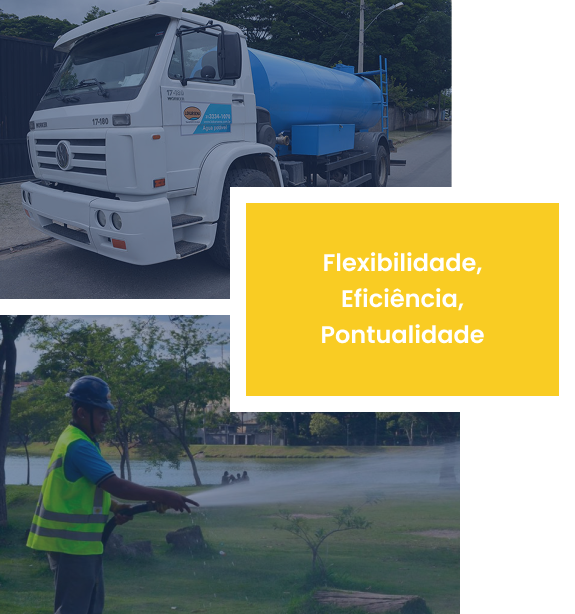
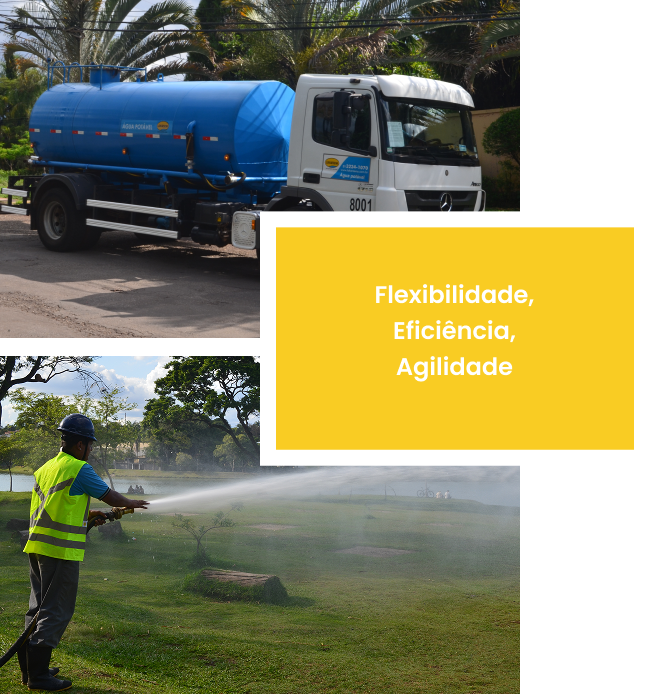
style: trocando imagens

diff --git a/index.html b/index.html
@@ -64,9 +64,9 @@
         </li>
         </li>
         <li class="flex flex-col w-full gap-[6px]">
-          <a class="text-[12px] text-[#203660] font-medium lg:text-[16px]" href="tel:+553132341070">(31) 3234-1070</a>
-          <a class="text-[12px] text-[#203660] font-medium lg:text-[16px]" href="tel:+553134472600">(31) 3447-2600</a>
-          <a class="text-[12px] text-[#203660] font-medium lg:text-[16px]" href="tel:+5531997375465">(31) 99737-5465</a>
+          <a class="text-[12px] font-medium lg:text-[16px]" href="tel:+553132341070">(31) 3234-1070</a>
+          <a class="text-[12px] font-medium lg:text-[16px]" href="tel:+553134472600">(31) 3447-2600</a>
+          <a class="text-[12px] font-medium lg:text-[16px]" href="tel:+5531997375465">(31) 99737-5465</a>
         </li>
       </ul>
     </nav>
@@ -104,7 +104,7 @@
         <a href="tel:+5531997375465"
           class="hidden sm:flex gap-[8px] lg:text-[20px] font-bold flex-shrink-0 items-center"><span
             class="material-icons menu-button lg:text-[20px]">phone</span> (31) 99737-5465 </a>
-        <span class="material-icons menu-button lg:text-[20px] hidden sm:block">menu</span>
+        <span class="material-icons menu-button lg:text-[24px] hidden sm:block">menu</span>
       </div>
     </section>
   </header>
@@ -328,9 +328,9 @@
             <p class="text-[14px] lg:text-[16px]">
               Nossos serviços são ideais para quem busca <strong
                 class="text-[14px]  font-semibold lg:text-[16px]">agilidade, economia de tempo e
-                tranquilidade</strong> <strong class="text-[14px] text-[#203660] font-medium lg:text-[16px]">na gestão
+                tranquilidade</strong> na gestão
                 de
-                recursos hídricos</strong>
+                recursos hídricos
             </p>
             <p class="text-[14px] lg:text-[16px]">
               Realizamos o reabastecimento de caixas d’água em prédios de até 30

diff --git a/fleet.html b/fleet.html
@@ -63,9 +63,9 @@
         </li>
         </li>
         <li class="flex flex-col w-full gap-[6px]">
-          <a class="text-[12px] text-[#203660] font-medium lg:text-[16px]" href="tel:+553132341070">(31) 3234-1070</a>
-          <a class="text-[12px] text-[#203660] font-medium lg:text-[16px]" href="tel:+553134472600">(31) 3447-2600</a>
-          <a class="text-[12px] text-[#203660] font-medium lg:text-[16px]" href="tel:+5531997375465">(31) 99737-5465</a>
+          <a class="text-[12px] font-medium lg:text-[16px]" href="tel:+553132341070">(31) 3234-1070</a>
+          <a class="text-[12px] font-medium lg:text-[16px]" href="tel:+553134472600">(31) 3447-2600</a>
+          <a class="text-[12px] font-medium lg:text-[16px]" href="tel:+5531997375465">(31) 99737-5465</a>
         </li>
       </ul>
     </nav>
@@ -102,7 +102,7 @@
              <a href="tel:+5531997375465"
           class="hidden sm:flex gap-[8px] text-[20px] font-bold flex-shrink-0 items-center"><span
             class="material-icons menu-button text-[20px]">phone</span> (31) 99737-5465 </a>
-        <span class="material-icons menu-button text-[20px] hidden sm:block">menu</span>
+        <span class="material-icons menu-button text-[24px] hidden sm:block">menu</span>
       </div>
     </section>
   </header>

diff --git a/contacts.html b/contacts.html
@@ -65,9 +65,9 @@
 
         </li>
         <li class="flex flex-col w-full gap-[6px]">
-          <a class="text-[12px] text-[#203660] font-medium lg:text-[16px]" href="tel:+553132341070">(31) 3234-1070</a>
-          <a class="text-[12px] text-[#203660] font-medium lg:text-[16px]" href="tel:+553134472600">(31) 3447-2600</a>
-          <a class="text-[12px] text-[#203660] font-medium lg:text-[16px]" href="tel:+5531997375465">(31) 99737-5465</a>
+          <a class="text-[12px] font-medium lg:text-[16px]" href="tel:+553132341070">(31) 3234-1070</a>
+          <a class="text-[12px] font-medium lg:text-[16px]" href="tel:+553134472600">(31) 3447-2600</a>
+          <a class="text-[12px] font-medium lg:text-[16px]" href="tel:+5531997375465">(31) 99737-5465</a>
         </li>
       </ul>
     </nav>
@@ -104,7 +104,7 @@
              <a href="tel:+5531997375465"
           class="hidden sm:flex gap-[8px] text-[20px] font-bold flex-shrink-0 items-center"><span
             class="material-icons menu-button text-[20px]">phone</span> (31) 99737-5465 </a>
-        <span class="material-icons menu-button text-[20px] hidden sm:block">menu</span>
+        <span class="material-icons menu-button text-[24px] hidden sm:block">menu</span>
       </div>
     </section>
   </header>

diff --git a/faq.html b/faq.html
@@ -64,9 +64,9 @@
 
         </li>
         <li class="flex flex-col w-full gap-[6px]">
-          <a class="text-[12px] text-[#203660] font-medium lg:text-[16px]" href="tel:+553132341070">(31) 3234-1070</a>
-          <a class="text-[12px] text-[#203660] font-medium lg:text-[16px]" href="tel:+553134472600">(31) 3447-2600</a>
-          <a class="text-[12px] text-[#203660] font-medium lg:text-[16px]" href="tel:+5531997375465">(31) 99737-5465</a>
+          <a class="text-[12px] font-medium lg:text-[16px]" href="tel:+553132341070">(31) 3234-1070</a>
+          <a class="text-[12px] font-medium lg:text-[16px]" href="tel:+553134472600">(31) 3447-2600</a>
+          <a class="text-[12px] font-medium lg:text-[16px]" href="tel:+5531997375465">(31) 99737-5465</a>
         </li>
       </ul>
     </nav>
@@ -103,7 +103,7 @@
              <a href="tel:+5531997375465"
           class="hidden sm:flex gap-[8px] text-[20px] font-bold flex-shrink-0 items-center"><span
             class="material-icons menu-button text-[20px]">phone</span> (31) 99737-5465 </a>
-        <span class="material-icons menu-button text-[20px] hidden sm:block">menu</span>
+        <span class="material-icons menu-button text-[24px] hidden sm:block">menu</span>
       </div>
     </section>
   </header>

diff --git a/request-truck.html b/request-truck.html
@@ -64,9 +64,9 @@
 
         </li>
         <li class="flex flex-col w-full gap-[6px]">
-          <a class="text-[12px] text-[#203660] font-medium lg:text-[16px]" href="tel:+553132341070">(31) 3234-1070</a>
-          <a class="text-[12px] text-[#203660] font-medium lg:text-[16px]" href="tel:+553134472600">(31) 3447-2600</a>
-          <a class="text-[12px] text-[#203660] font-medium lg:text-[16px]" href="tel:+5531997375465">(31) 99737-5465</a>
+          <a class="text-[12px] font-medium lg:text-[16px]" href="tel:+553132341070">(31) 3234-1070</a>
+          <a class="text-[12px] font-medium lg:text-[16px]" href="tel:+553134472600">(31) 3447-2600</a>
+          <a class="text-[12px] font-medium lg:text-[16px]" href="tel:+5531997375465">(31) 99737-5465</a>
         </li>
       </ul>
     </nav>
@@ -103,7 +103,7 @@
              <a href="tel:+5531997375465"
           class="hidden sm:flex gap-[8px] text-[20px] font-bold flex-shrink-0 items-center"><span
             class="material-icons menu-button text-[20px]">phone</span> (31) 99737-5465 </a>
-        <span class="material-icons menu-button text-[20px] hidden sm:block">menu</span>
+        <span class="material-icons menu-button text-[24px] hidden sm:block">menu</span>
       </div>
     </section>
   </header>
